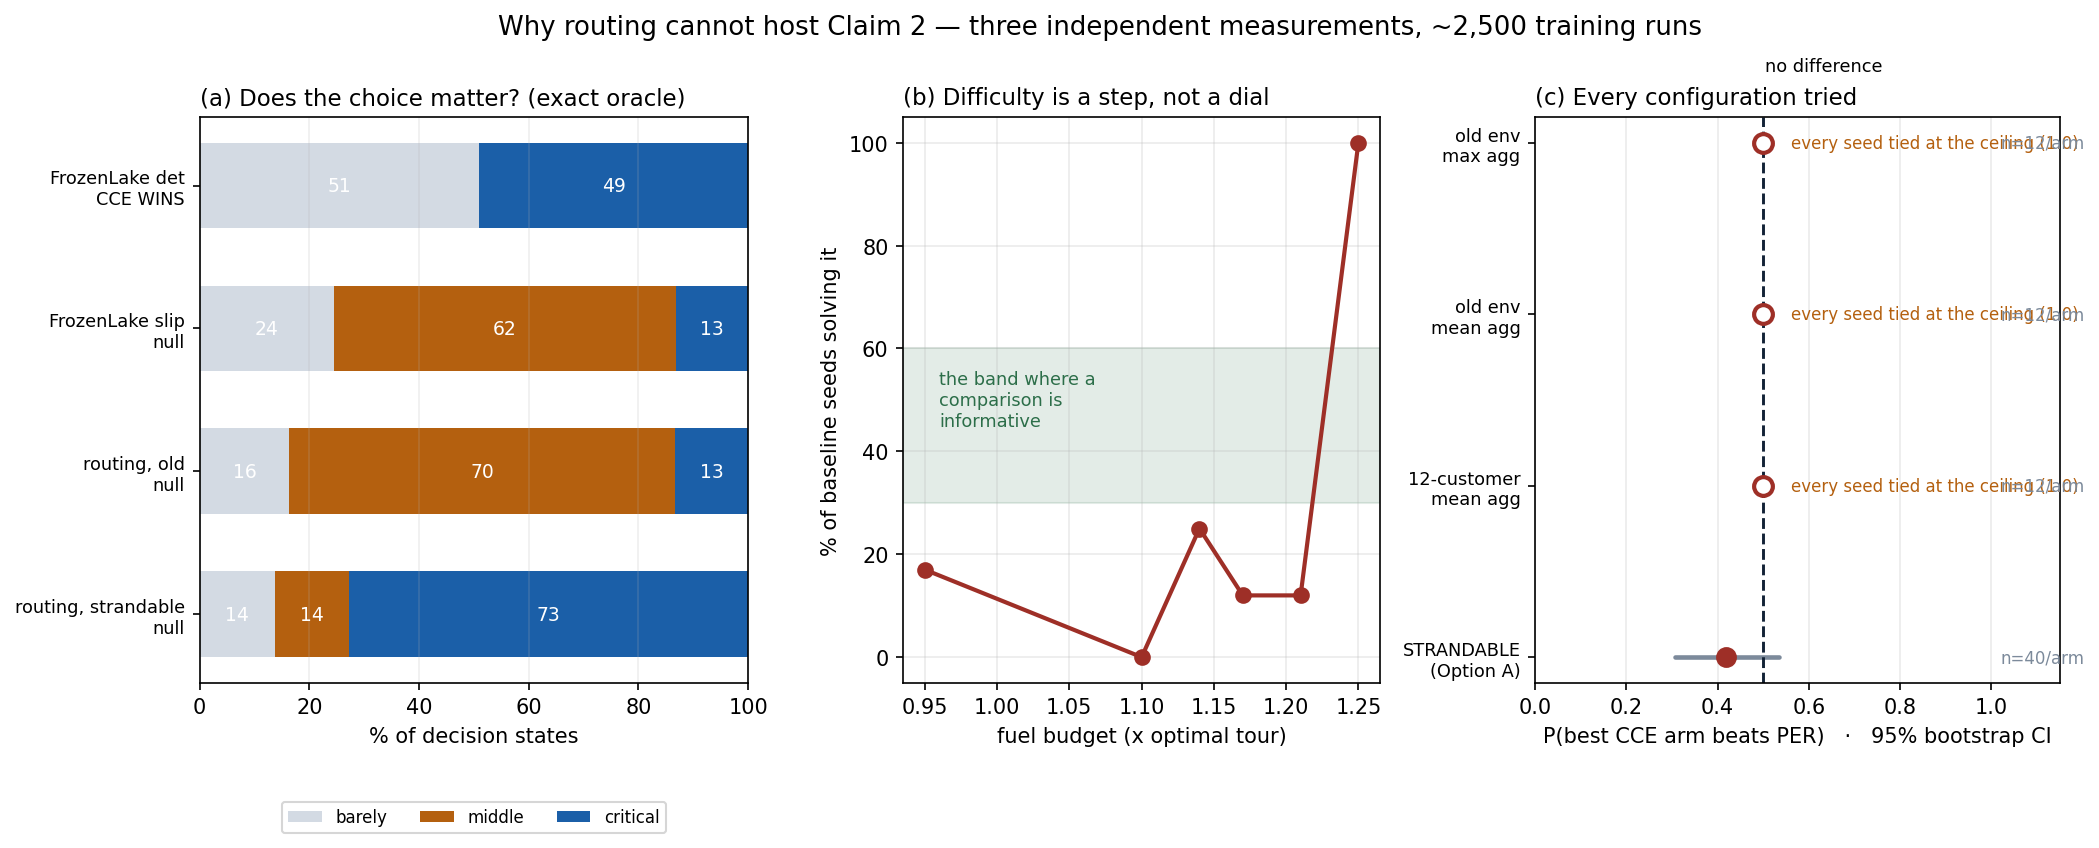
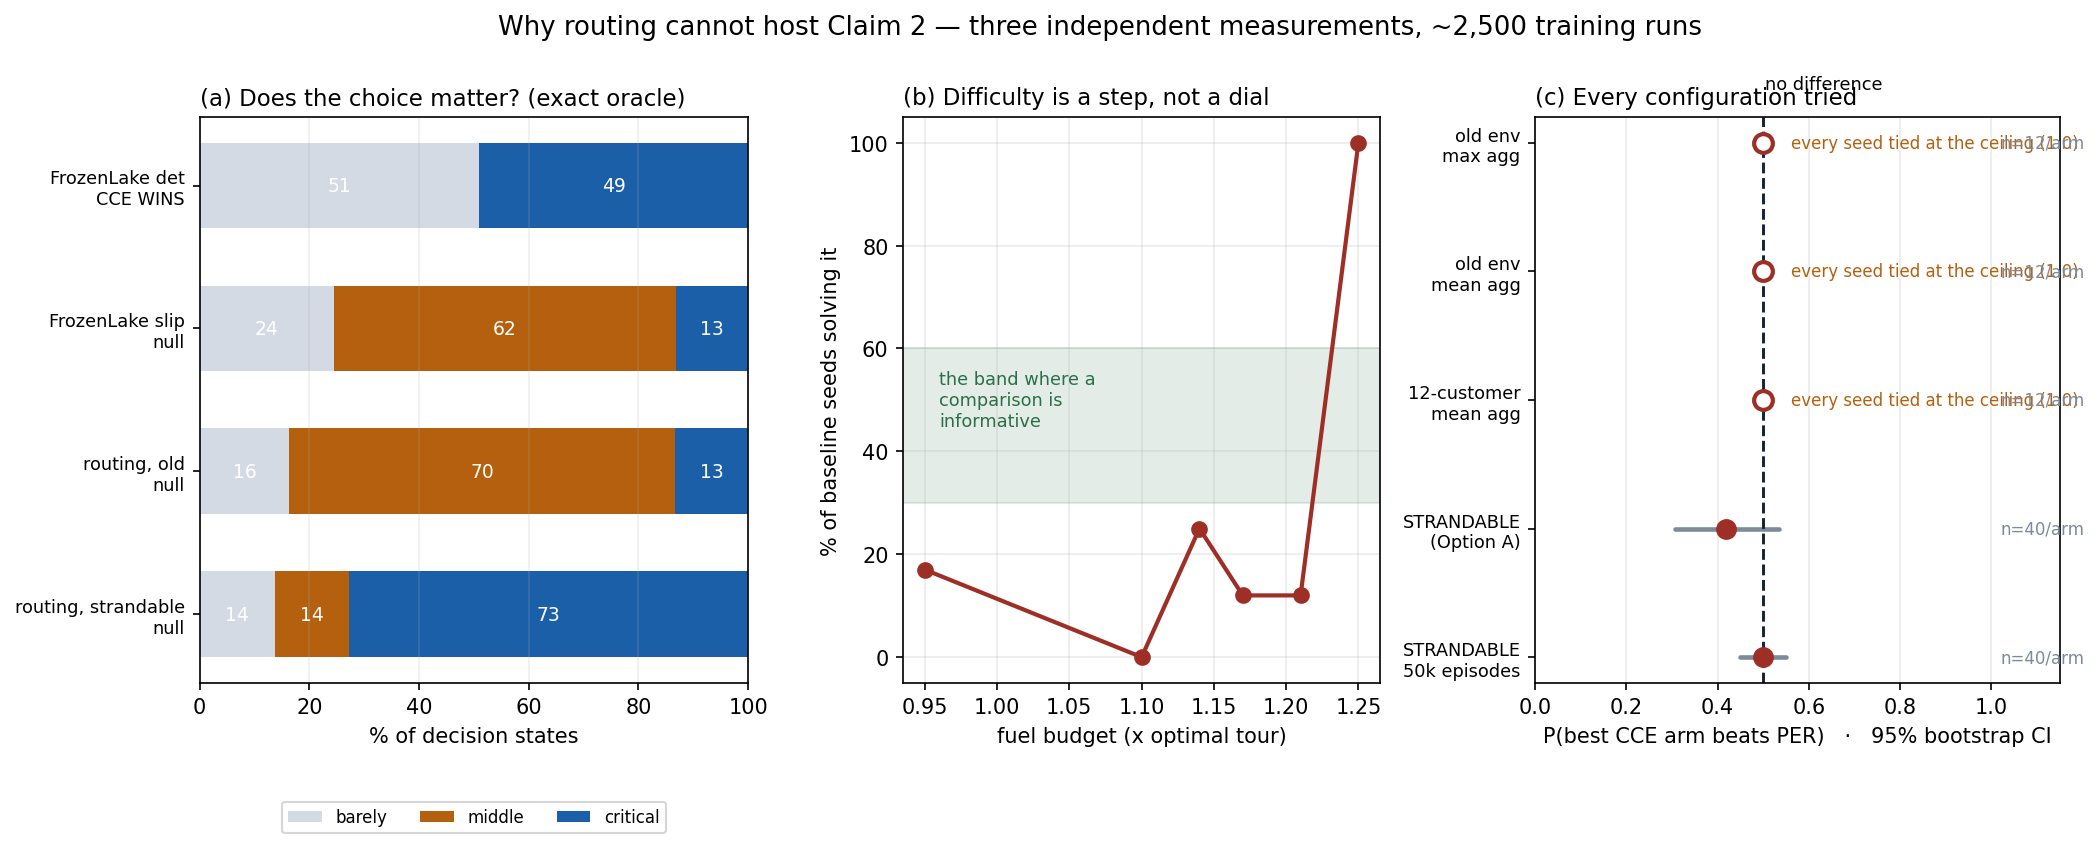
50k rerun: prediction confirmed, routing Claim 2 closed
200 runs at 9x the registered budget. Predicted beforehand from the 25k calibration:
baseline near 90-100%, metric saturates, arm gaps compress to zero. All three held.

  DQN-Uniform 40/40 100%   <- random replay is the best arm
  DQN+PER     38/40  95%
  CCE-only    38/40  95%   +0.0pp
  CCE+TD add  38/40  95%   +0.0pp
  CCE+TD mul  36/40  90%   -5.0pp

Closes the last objection: 'CCE just needs more training' is refuted at 9x budget.
Four independent measurements now agree that routing cannot host Claim 2 -- the smooth
stakes ramp, the step-function difficulty curve, unstabilisable policies, and
saturation under long training. Routing stays a Claim-1 environment.

Claude-Session: https://claude.ai/code/session_019Xzvv6y6ZRCCiMAQNncbQm

diff --git a/src/counterfactual_rl/analysis/claim2/optionA_solve_rate.py b/src/counterfactual_rl/analysis/claim2/optionA_solve_rate.py
@@ -30,6 +30,7 @@ ARMS = ['uniform', 'per', 'cceonly', 'cceadd', 'ccemul']
 LABEL = {'uniform': 'DQN-Uniform', 'per': 'DQN+PER', 'cceonly': 'DQN+CCE-only',
          'cceadd': 'CCE+TD (add)', 'ccemul': 'CCE+TD (mul)'}
 RUN_RE = re.compile(r'^oa_(\w+?)_s(\d+)$')
+RUN_RE_LONG = re.compile(r'^oaL_(\w+?)_s(\d+)$')   # the 50k exploratory rerun
 REGISTERED_MARGIN = 30.0        # pp; the FrozenLake-sized effect the prediction is about
 
 
@@ -77,13 +78,17 @@ def fisher_p(k1, n1, k2, n2):
 def main(argv=None):
     ap = argparse.ArgumentParser()
     ap.add_argument('--runs-dir', required=True)
+    ap.add_argument('--long', action='store_true',
+                    help='analyse the 50k exploratory rerun (oaL_) instead of the '
+                         'pre-registered E*=5500 sweep (oa_)')
     ap.add_argument('--threshold', type=float, default=0.9999,
                     help='opt_ratio counting as solved (default: exactly optimal)')
     args = ap.parse_args(argv)
 
     scores = defaultdict(list)
-    for d in sorted(Path(args.runs_dir).glob('oa_*')):
-        m = RUN_RE.match(d.name)
+    rx = RUN_RE_LONG if args.long else RUN_RE
+    for d in sorted(Path(args.runs_dir).glob('oaL_*' if args.long else 'oa_*')):
+        m = rx.match(d.name)
         f = d / 'metrics.log'
         if not m or not f.exists():
             continue
@@ -97,7 +102,9 @@ def main(argv=None):
     pk = sum(1 for v in scores['per'] if v >= args.threshold)
     pn = len(scores['per'])
 
-    print("\nOPTION A — strandable budget routing, pre-registered at E*=5500\n")
+    tag = ("OPTION A (50k EXPLORATORY rerun — NOT the pre-registered test)"
+           if args.long else "OPTION A — strandable budget routing, pre-registered at E*=5500")
+    print(f"\n{tag}\n")
     print(f"{'arm':<15} {'n':>4} {'solved':>12} {'95% CI':>16} {'vs PER':>9} {'p':>8}")
     print("-" * 72)
     rows = {}

diff --git a/src/counterfactual_rl/analysis/claim2/routing_summary.py b/src/counterfactual_rl/analysis/claim2/routing_summary.py
@@ -74,6 +74,7 @@ def main(argv=None):
         ('12-customer\nmean agg', 'bdi_ring12mean_*_b080_c10_s*',
          re.compile(r'^bdi_ring12mean_(\w+?)_b\d+_c\d+_s\d+$')),
         ('STRANDABLE\n(Option A)', 'oa_*', re.compile(r'^oa_(\w+?)_s\d+$')),
+        ('STRANDABLE\n50k episodes', 'oaL_*', re.compile(r'^oaL_(\w+?)_s\d+$')),
     ]
     results = []
     for label, glob, rx in CONFIGS:

diff --git a/lab-notebook.md b/lab-notebook.md
@@ -88,6 +88,33 @@ Active: FL-det, FL-stoch, SMAX-3m, C4.   Dropped: Chess, raw diagnostics.
 
 ## LOG (append-only, newest on top)
 
+### 2026-08-20 — **50k RERUN DONE (200 runs). Prediction confirmed: the metric saturates.**
+Exploratory, not the registered test — E* was fixed at 5,500 and changing it changes the question.
+```
+arm             solved        95% CI        vs PER    p
+DQN-Uniform    40/40  100%  [91.2,100.0]   +5.0pp   0.494   <- random replay is BEST
+DQN+PER        38/40   95%  [83.5, 98.6]      —       —
+DQN+CCE-only   38/40   95%  [83.5, 98.6]   +0.0pp   1.000
+CCE+TD (add)   38/40   95%  [83.5, 98.6]   +0.0pp   1.000
+CCE+TD (mul)   36/40   90%  [76.9, 96.0]   -5.0pp   0.675
+```
+Predicted before running (from the 25k calibration): "baseline near 90-100%, the metric saturates,
+arm differences compress toward zero." All three held. **DQN-Uniform tops the table at 100%** —
+random replay beating every prioritised method is the same noise signature that discredited the
+original CVRP null, and it recurs here.
+
+**This closes the last standing objection.** "CCE just needs more training" is now tested at 9x the
+registered budget and refuted: at 50,000 episodes every arm is at the ceiling and the ordering is
+noise. Combined with E*=5,500 (+2.5pp, p=1.000), CCE does not beat PER in strandable routing at
+either a discriminating or a saturated training budget.
+
+**ROUTING CLAIM 2 IS CLOSED.** Four independent measurements now agree: the smooth stakes ramp,
+the step-function difficulty curve, policies that never stabilise once failure is reachable, and
+saturation under long training. Routing remains a CLAIM-1 environment (rho 0.52 -> 0.67, exact
+oracle), where it genuinely succeeded. Claim 2 should move to an external suite (gymnax/MinAtar,
+bsuite) per the literature review — which also fixes the "every environment is one we built"
+exposure.
+
 ### 2026-08-20 — 50k-episode rerun launched. **DEAD END / TOOLING BUG: sed-derived sbatch files.**
 
 **NEW TOOLING GOTCHA — cost 24 runs of pre-registered data.** Every sbatch in this project has
